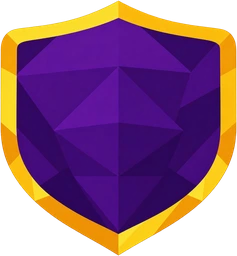
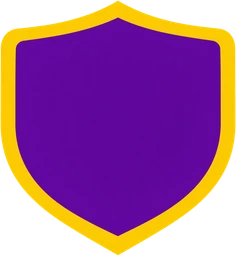
Cartes : le bouclier de puissance simple (violet à bordure dorée)
Claude-Session: https://claude.ai/code/session_01WBr81hXGuiKaUUHQzx9jLu

diff --git a/src/ui/art.ts b/src/ui/art.ts
@@ -294,7 +294,7 @@ export function urlDuSymbole(nom: string): string {
  * de cache que les autres fichiers de `public/` : l'URL porte la date du
  * build, sinon le remplacer ne changerait rien à l'écran.
  */
-/** LE BOUCLIER DE PUISSANCE de Keko (violet et or, facetté) : le médaillon des cartes. */
+/** LE BOUCLIER DE PUISSANCE de Keko (violet à bordure dorée, la version simple) : le médaillon des cartes. */
 export function urlDuBouclier(): string {
   return `${import.meta.env.BASE_URL}bouclier-puissance.webp?v=${encodeURIComponent(__BUILD_TIME__)}`
 }

diff --git a/src/render/texture-carte.ts b/src/render/texture-carte.ts
@@ -5005,7 +5005,7 @@ function bouclierPeint(): Promise<HTMLImageElement | null> {
 }
 
 /**
- * LE MÉDAILLON : LE BOUCLIER DE KEKO (« Bouclier violet et or facetté »), le
+ * LE MÉDAILLON : LE BOUCLIER DE KEKO (« Bouclier violet à bordure dorée », la version simple), le
  * chiffre en or clair dessus, en Grenze. Ni crème ni blanc : le cerne
  * arc-en-ciel d'une holo se reconnaît au crème (`COSMOS.cerne`). Sans
  * l'image, un disque de cuir serti d'or le remplace.
